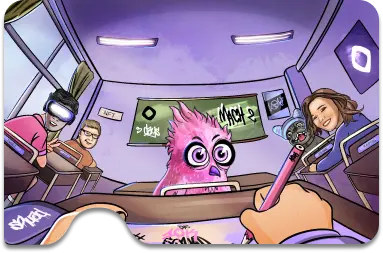
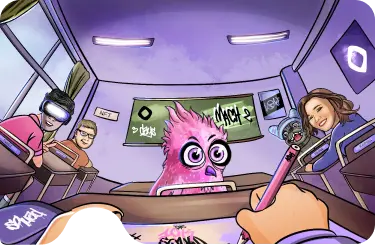
fix(whatsnew): updated header image

diff --git a/app/components/WhatsNew.tsx b/app/components/WhatsNew.tsx
@@ -47,7 +47,7 @@ const WhatsNew = () => {
                          hover:scale-105 transition-transform relative overflow-visible cursor-pointer"
             >
               <div 
-                className="absolute top-0 left-0 right-0 h-32 bg-cover bg-center opacity-100"
+                className="absolute rounded-xl top-0 left-0 right-0 h-32 bg-cover bg-center opacity-100"
                 style={{
                   backgroundImage: 'url("/news.webp")'
                 }}
